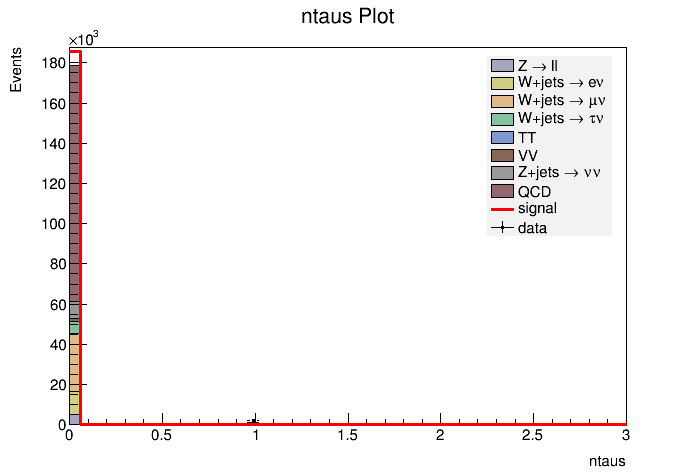
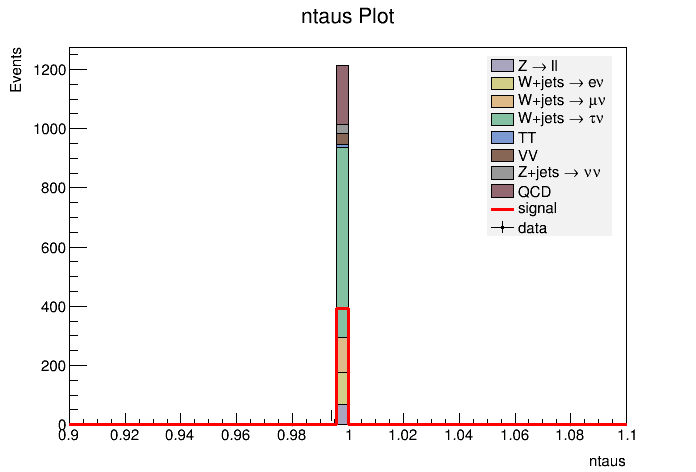
added bin numbers to analysis file

diff --git a/include/analysis.h b/include/analysis.h
@@ -203,91 +203,74 @@ const char* data_legend = "data";
 
 ///////////////////////////      Variables w/ cuts       ///////////////////////////////////
 
-const char* vars_w_cuts[][6] = {
-                              {"jet1_pt", "0.0", "600.0", "right", 
-                               "420.0", "440.0"},
-                              {"jet3_pt", "0.0", "600.0", "right", 
-                               "195.0", "320.0"},
-                              {"jet2_E", "0.0", "5000.0", "right", 
-                               "2400.0", "2700.0"},
-                              {"jet1_eta", "-5.0", "5.0", "left", 
-                               "0.6", "1.0"},
-                              {"forward_tag_eta", "-5.0", "5.0", "left", 
-                               "4.1", "4.3"},
-                              {"dijet_deta", "3.0", "8.0", "right", 
-                               "6.4", "6.7"},
-                              {"dijet_sumeta", "-6.0", "6.0", "left", 
-                               "3.5", "4.0"},
-                              {"dijet_dphi", "0.0", "4.0", "left", 
-                               "1.3", "1.5"},
-                              {"met", "0.0", "400.0", "right", 
-                               "270.0", "320.0"},
-                              {"metnomu_x", "-400.0", "400.0", 
-                               "left", "340.0", "400.0"},
-                              {"metnomu_y", "-400.0", "400.0", "left", 
-                               "200.0", "400.0"},
-                              {"met_significance", "0.0", "12.0", "right", 
-                               "7.2", "10.0"},
-                              {"metnomu_significance", "2.0", "12.0", "right", 
-                               "6.8", "10.2"},
-                              {"sumet", "0.0", "2400.0", "right", 
-                               "1900.0", "2400.0"},
-                              {"ht", "0.0", "1200.0", "right", 
-                               "125.0", "175.0"},
-                              {"ht30", "0.0", "1200.0", "right", 
-                               "100.0", "150.0"},                    
-                              {"sqrt_ht", "0.0", "35.0", "right", 
-                               "10.0", "13.0"},
-                              {"unclustered_et", "0.0", "2000.0", "right", 
-                               "1400.0", "1600.0"},
-                              {"jet1met_dphi", "0.0", "3.5", "left", 
-                               "2.1", "2.4"},
-                              {"jet2met_dphi", "0.0", "3.5", "right", 
-                               "1.4", "1.7"},
-                              {"jet1metnomu_dphi", "0.0", "3.5", "left", 
-                               "2.1", "2.5"},
-                              {"jet2metnomu_dphi", "0.0", "3.5", "right", 
-                               "1.4", "1.7"},
-                              {"jetmetnomu_mindphi", "0.0", "3.5", "right", 
-                               "2.9", "3.1"},
-                              {"alljetsmet_mindphi", "0", "3.2", "left", 
-                               "2.2", "3.0"},
-                              {"alljetsmetnomu_mindphi", "0.0", "3.5", "left", 
-                               "2.2", "3.0"},
-                              {"jetunclet_mindphi", "0.0", "3.5", "right", 
-                               "2.8", "2.9"},
-                              {"metnomuunclet_dphi", "0.0", "3.5", "right", 
-                               "2.8", "2.9"},
-                              {"dijetmet_scalarSum_pt", "0.0", "1200.0", "right", 
-                               "800.0", "900.0"},
-                              {"dijetmet_vectorialSum_pt", "0.0", "400.0", "right", 
-                               "240.0", "250.0"},
-                              {"dijetmet_ptfraction", "0.0", "1.0", "right", 
-                               "0.76", "0.82"},
-                              {"jet2met_scalarprod", "-400.0", "400.0", "left", 
-                               "20.0", "50.0"},
-                              {"dijetmetnomu_scalarSum_pt", "0.0", "1200.0", "right", 
-                               "800.0", "950.0"},
-                              {"jet2metnomu_scalarprod", "-2000.0", "2000.0", "left", 
-                               "400.0", "500.0"},
-                              {"l1met", "0.0", "400.0", "right", 
-                               "250.0", "400.0"},
-                              {"metnomuons", "0.0", "400.0", "right", 
-                               "320.0", "400.0"},  
-                              {"mht", "0.0", "3000.0", "right", 
-                               "2400.0", "2800.0"},
-                              {"nvetomuons", "0.0", "3.0", "right", 
-                               "0.9", "1.1"},
-                              {"nvetoelectrons", "0.0", "3.0", "right", 
-                               "0.9", "1.1"},
-                              {"met_x", "-400.0", "400.0", "left", 
-                               "370.0", "400.0"},
-                              {"met_y", "-400.0", "400.0", "left", 
-                               "180.0", "400.0"},
-                              {"ntaus", "0.0", "3.0", "right", 
-                               "0.9", "1.1"}
-                             };
-
+const char* vars_w_cuts[][7] = {
+                              {"jet1_pt", "0.0", "600.0", "right",
+                               "420.0", "440.0","10"},
+                              {"jet2_E", "0.0", "5000.0", "right",
+                               "2400.0", "2700.0","50"},
+                              {"jet1_eta", "-5.0", "5.0", "left",
+                               "0.6", "1.0","50"},
+                              {"forward_tag_eta", "-5.0", "5.0", "left",
+                               "4.1", "4.3","25"},
+                              {"dijet_deta", "3.0", "8.0", "right",
+                               "6.4", "6.7","25"},
+                              {"dijet_sumeta", "-6.0", "6.0", "left",
+                               "3.5", "4.0","50"},
+                              {"met", "0.0", "400.0", "right",
+                               "270.0", "320.0","25"},
+                              {"metnomu_x", "-400.0", "400.0",
+                               "left", "340.0", "400.0","25"},
+                              {"metnomu_y", "-400.0", "400.0", "left",
+                               "200.0", "400.0","50"},
+                              {"met_significance", "0.0", "12.0", "right",
+                               "7.2", "10.0","25"},
+                              {"metnomu_significance", "2.0", "12.0", "right",
+                               "6.8", "10.2","10"},
+                              {"sumet", "0.0", "2400.0", "right",
+                               "1900.0", "2400.0","50"},
+                              {"ht", "0.0", "1200.0", "right",
+                               "125.0", "175.0","100"},
+                              {"ht30", "0.0", "1200.0", "right",
+                               "100.0", "150.0","100"},
+                              {"sqrt_ht", "0.0", "35.0", "right",
+                               "10.0", "13.0","50"},
+                              {"unclustered_et", "0.0", "2000.0", "right",
+                               "1400.0", "1600.0","50"},
+                              {"jet1met_dphi", "0.0", "3.5", "left",
+                               "2.1", "2.4","50"},
+                              {"jet2met_dphi", "0.0", "3.5", "right",
+                               "1.4", "1.7","30"},
+                              {"jet1metnomu_dphi", "0.0", "3.5", "left",
+                               "2.1", "2.5","50"},
+                              {"jet2metnomu_dphi", "0.0", "3.5", "right",
+                               "1.4", "1.7","30"},
+                              {"jetmetnomu_mindphi", "0.0", "3.5", "right",
+                               "2.9", "3.1","25"},
+                              {"alljetsmet_mindphi", "0", "3.2", "left",
+                               "2.2", "3.0","25"},
+                              {"alljetsmetnomu_mindphi", "0.0", "3.5", "left",
+                               "2.2", "3.0","25"},
+                              {"jetunclet_mindphi", "0.0", "3.5", "right",
+                               "2.8", "2.9","25"},
+                              {"dijetmet_scalarSum_pt", "0.0", "1200.0", "right",
+                               "800.0", "900.0","25"},
+                              {"dijetmet_vectorialSum_pt", "0.0", "400.0", "right",
+                               "240.0", "250.0","100"},
+                              {"jet2met_scalarprod", "-400.0", "400.0", "left",
+                               "20.0", "50.0","100"},
+                              {"dijetmetnomu_scalarSum_pt", "0.0", "1200.0", "right",
+                               "800.0", "950.0","20"},
+                              {"l1met", "0.0", "400.0", "right",
+                               "250.0", "400.0","10"},
+                              {"metnomuons", "0.0", "400.0", "right",
+                               "320.0", "400.0","25"},
+                              {"mht", "0.0", "3000.0", "right",
+                               "2400.0", "2800.0","25"},
+                              {"met_x", "-400.0", "400.0", "left",
+                               "370.0", "400.0","25"},
+                              {"met_y", "-400.0", "400.0", "left",
+                               "180.0", "400.0","25"}
+							   };
 
 ///////////////////////////      Variables w/ no cuts       ////////////////////////////////
 
@@ -365,6 +348,9 @@ const char* vars_no_cuts[][4] = {
                               {"n_vertices", "0.0", "30.0", "right"}
                              };
 
+const char* bin_nums [40]{
+{"10","useless","50","50","25","25","50","useless","25","25","50","25","10","50","100","100","50","50","50","30","50","30","25","25","25","25","useless","25","100","useless","100","20","useless","10","25","25","n/a useless","n/a useless","25","25"}
+}
 
 #endif
 

diff --git a/src/main.cpp b/src/main.cpp
@@ -19,12 +19,15 @@ void produce_graphs() {
 
   const char* weight = "total_weight_lepveto";
   const char* vars[][5] = { 
-                        // {varaible to plot, xmin, xmax, legend position, signal_multiplier}
-                        {"met", "0.0", "400.0", "right", "100"}
+                        // {varaible to plot, xmin, xmax, legend position,min_x_cut,max_x_cut,bins}
+			{"ntaus", "0.9", "1.1", "right"},
+                        
                       };
-  const char* bin_arr[]= {"10","25","50","75","100"};
-  for(int i = 0; i < 70; i++) {
-  //int i =2;
+ // const char* bin_arr[]= {"10","25","50","75","100"};
+
+  for(int i = 0; i < 1; i++) {
+
+    
     //min: x>4.5, max: x<4.5
     /*
     std::string cut_max_str(weight_str);
@@ -39,10 +42,9 @@ void produce_graphs() {
 
     std::string selection_str(weight);
     const char* selection = selection_str.c_str();
-    const char* x_min = vars_no_cuts[i][1];
-    //std::cout << vars_no_cuts[2][1] << "\n";
-
-    const char* x_max = vars_no_cuts[i][2];
+    const char* x_min = vars_w_cuts[i][1];
+ 
+    const char* x_max = vars_w_cuts[i][2];
  //std::cout << x_max << "\n";
 
     	//create vector of datachain pointers
@@ -50,11 +52,12 @@ void produce_graphs() {
     std::vector<DataChain*> bg (bg_arr, bg_arr+ sizeof(bg_arr)/sizeof(DataChain*));
 
     const char* signal_multiplier = "100";
-    for(int j =0;j<5;j++){
-    	const char* bins = bin_arr[j];
-    	draw_stacked_histoplots(bg, mc_signal, data_chain, vars_no_cuts[i][0], selection, signal_multiplier, bins, x_min, x_max, vars_no_cuts[i][3], true);
-    }
-//bg_zll->scale_bins_for_cut("100", "0", "100", "50", "100");
+    
+    	const char* bins = vars_w_cuts[i][6];
+    draw_stacked_histoplots(bg, mc_signal, data_chain, vars_w_cuts[i][0], selection, signal_multiplier, bins, x_min, x_max, vars_w_cuts[i][3], true);
+    
+  //bg_zll->scale_bins_for_cut("100", "0", "100", "50", "100");
+
   }
 }
 
